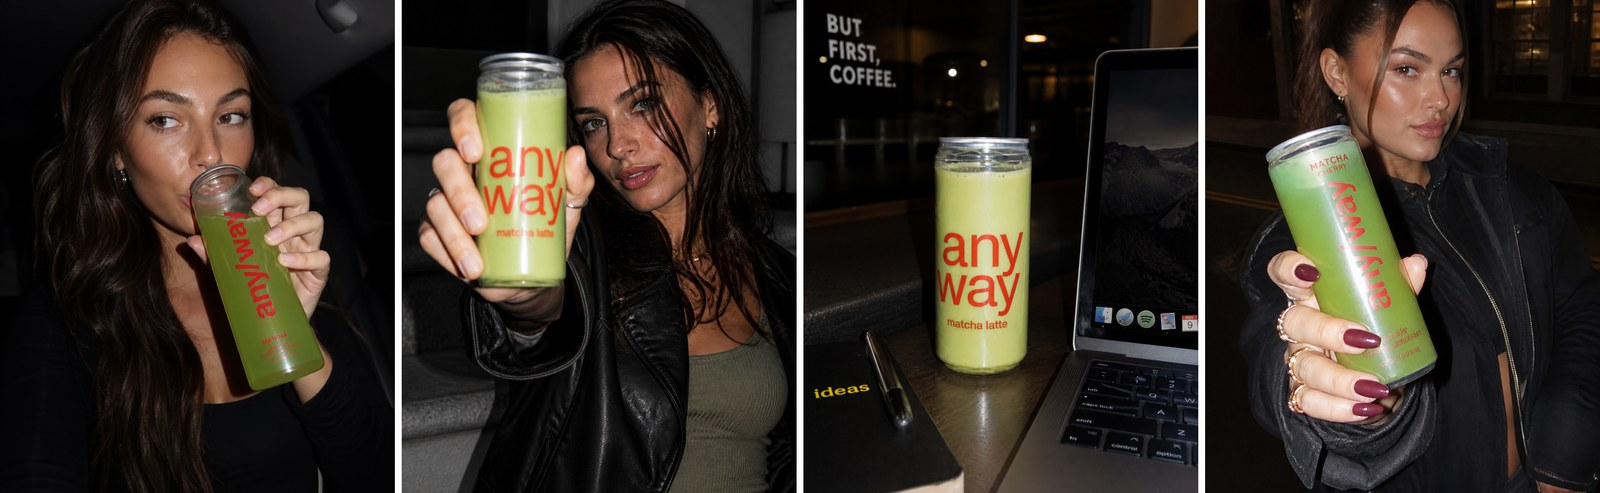
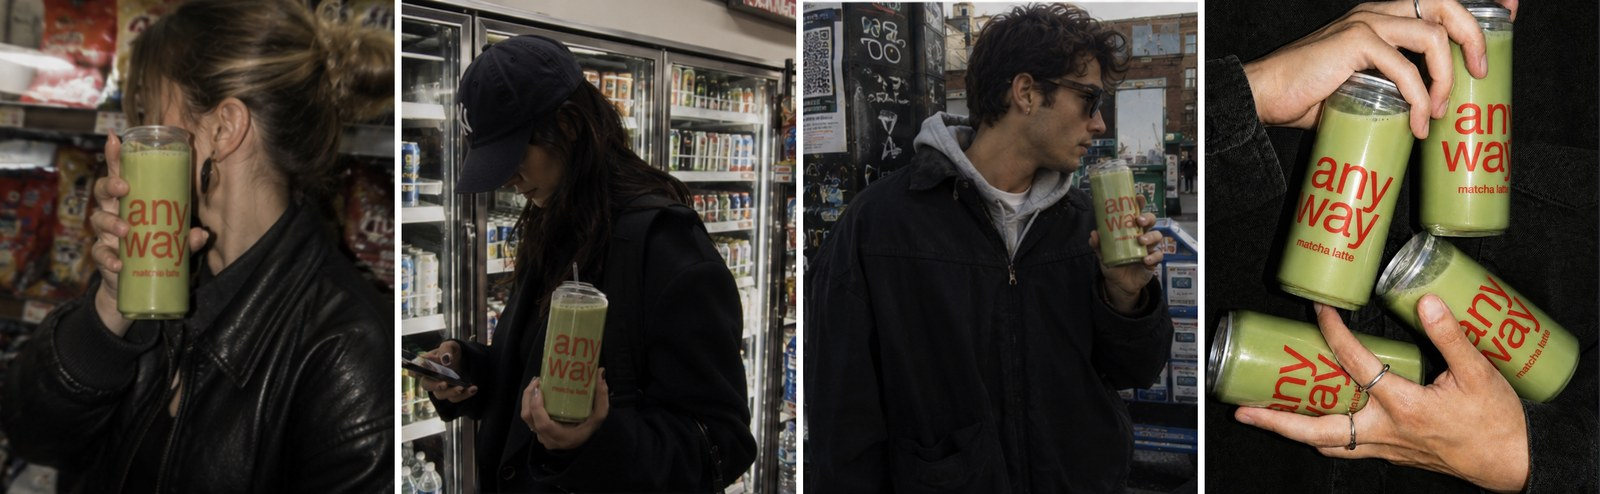
Swap the anyway stills for creamy matcha and add Workflow shots.
Character strip uses the correct product look. Studio stays, then the canvas, templates, and example ads.

diff --git a/content/guides/arcads.md b/content/guides/arcads.md
@@ -32,22 +32,34 @@ I made anyway. A matcha latte that does not exist. World, logo, vibe. All of tha
 
 ## the stills
 
-Then I used AI to generate character images and lifestyle assets. Cursor and ChatGPT. People who would actually drink this, and the product in the world.
+I used Cursor and ChatGPT to generate character images and branding assets to feed into Arcads as examples.
 
-![character and lifestyle stills for anyway](/guides/arcads/stills.jpg)
+![character and branding stills for anyway](/guides/arcads/stills.jpg)
 
 Those stills are what I fed Arcads. Not a blank project.
 
-## then arcads
-
-Open Arcads. You'll see Studio, Workflow, and Agent.
+## studio
 
 I dropped the stills into Studio, referenced them in the prompt, and generated.
 
 ![anyway matcha in arcads studio with stills uploaded](/guides/arcads/studio.jpg)
 
-Arcads did the rest. Characters that look like people. Ads that look like they'd show up in a feed. The Agent was my favorite of the three rooms.
-
 ![generated anyway pour ad in arcads](/guides/arcads/result.jpg)
 
-That's the process. Brand first. Stills second. Then Arcads.
+## workflows
+
+Workflows is the canvas. You describe what you want, or pick a template, connect the steps, and it runs.
+
+![anyway workspace in the arcads workflow canvas](/guides/arcads/workflow.jpg)
+
+![arcads workflow templates](/guides/arcads/workflow-templates.jpg)
+
+Examples that came out:
+
+![anyway ads generated in arcads](/guides/arcads/examples.jpg)
+
+## the agent
+
+The Agent was my favorite of the three rooms. Same workspace. You talk to it. It runs the generation.
+
+That's the process. Brand first. Stills second. Then Arcads: Studio, Workflows, Agent.
